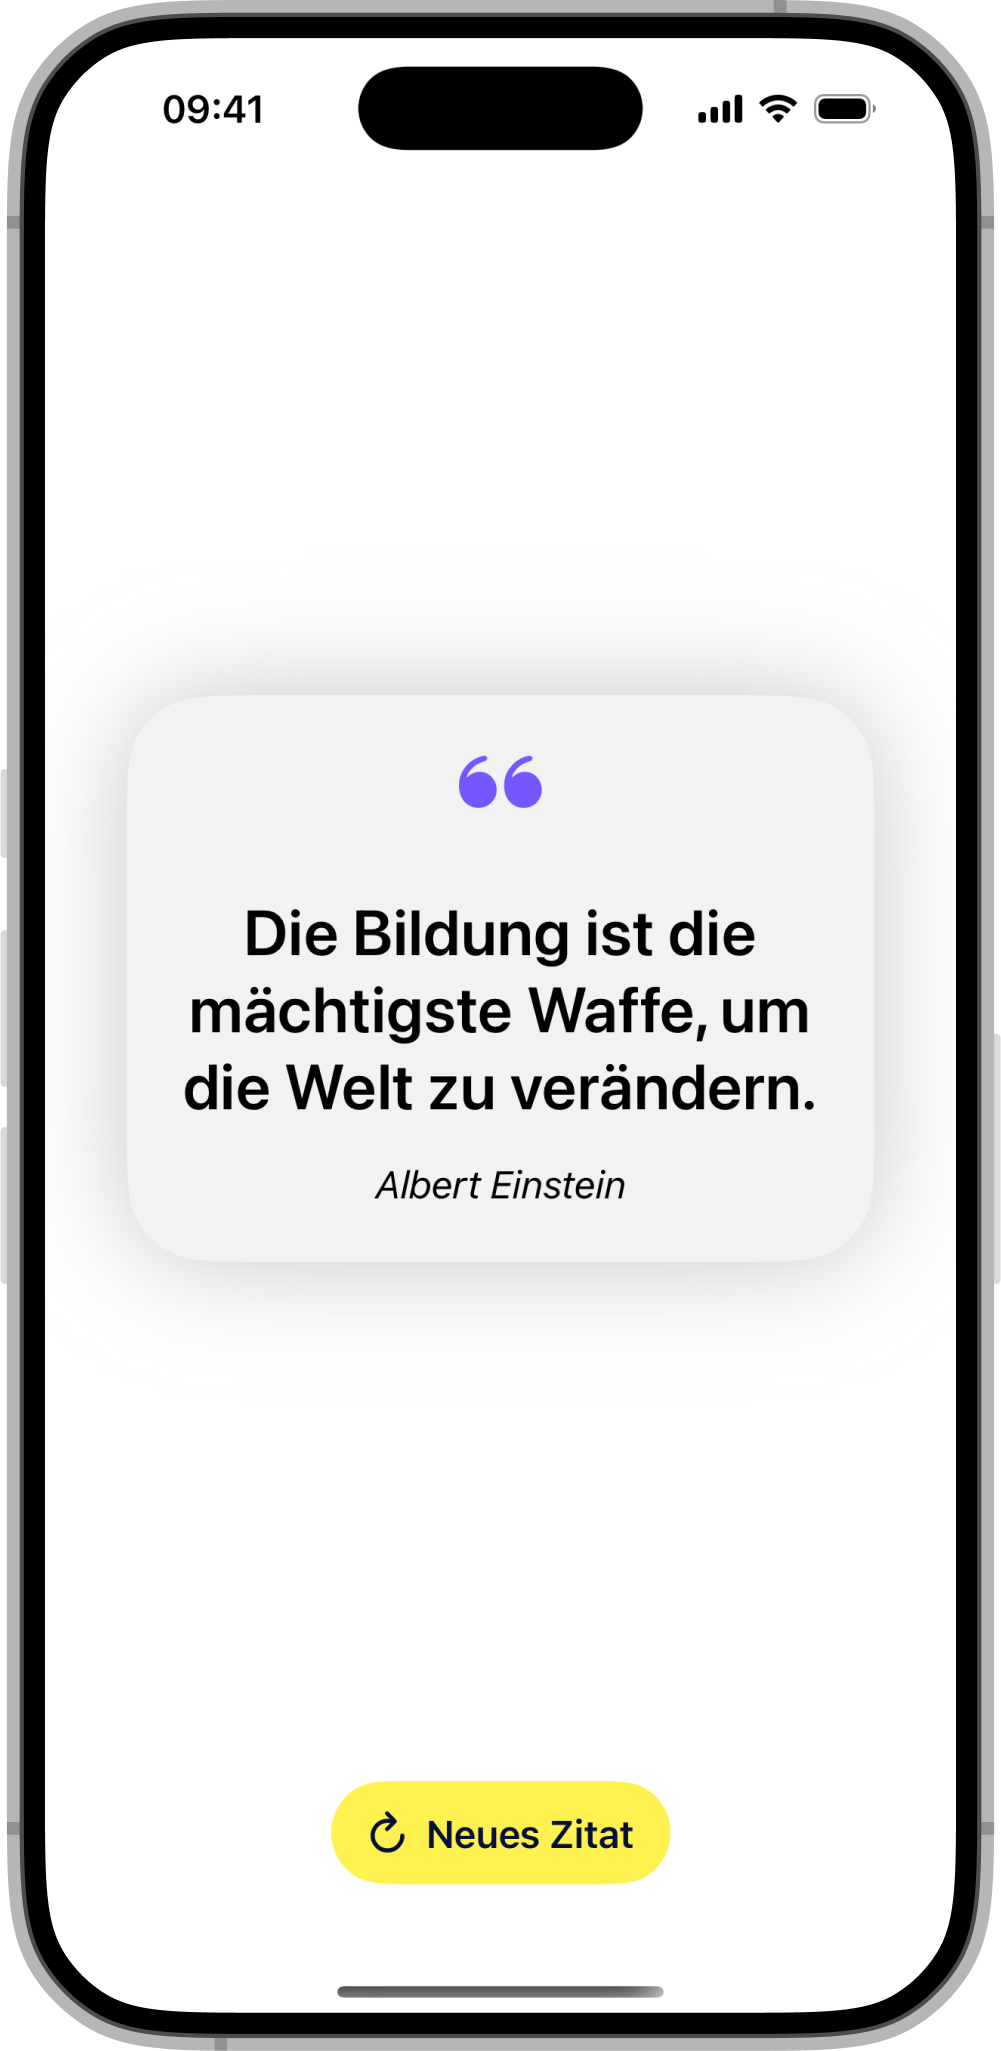
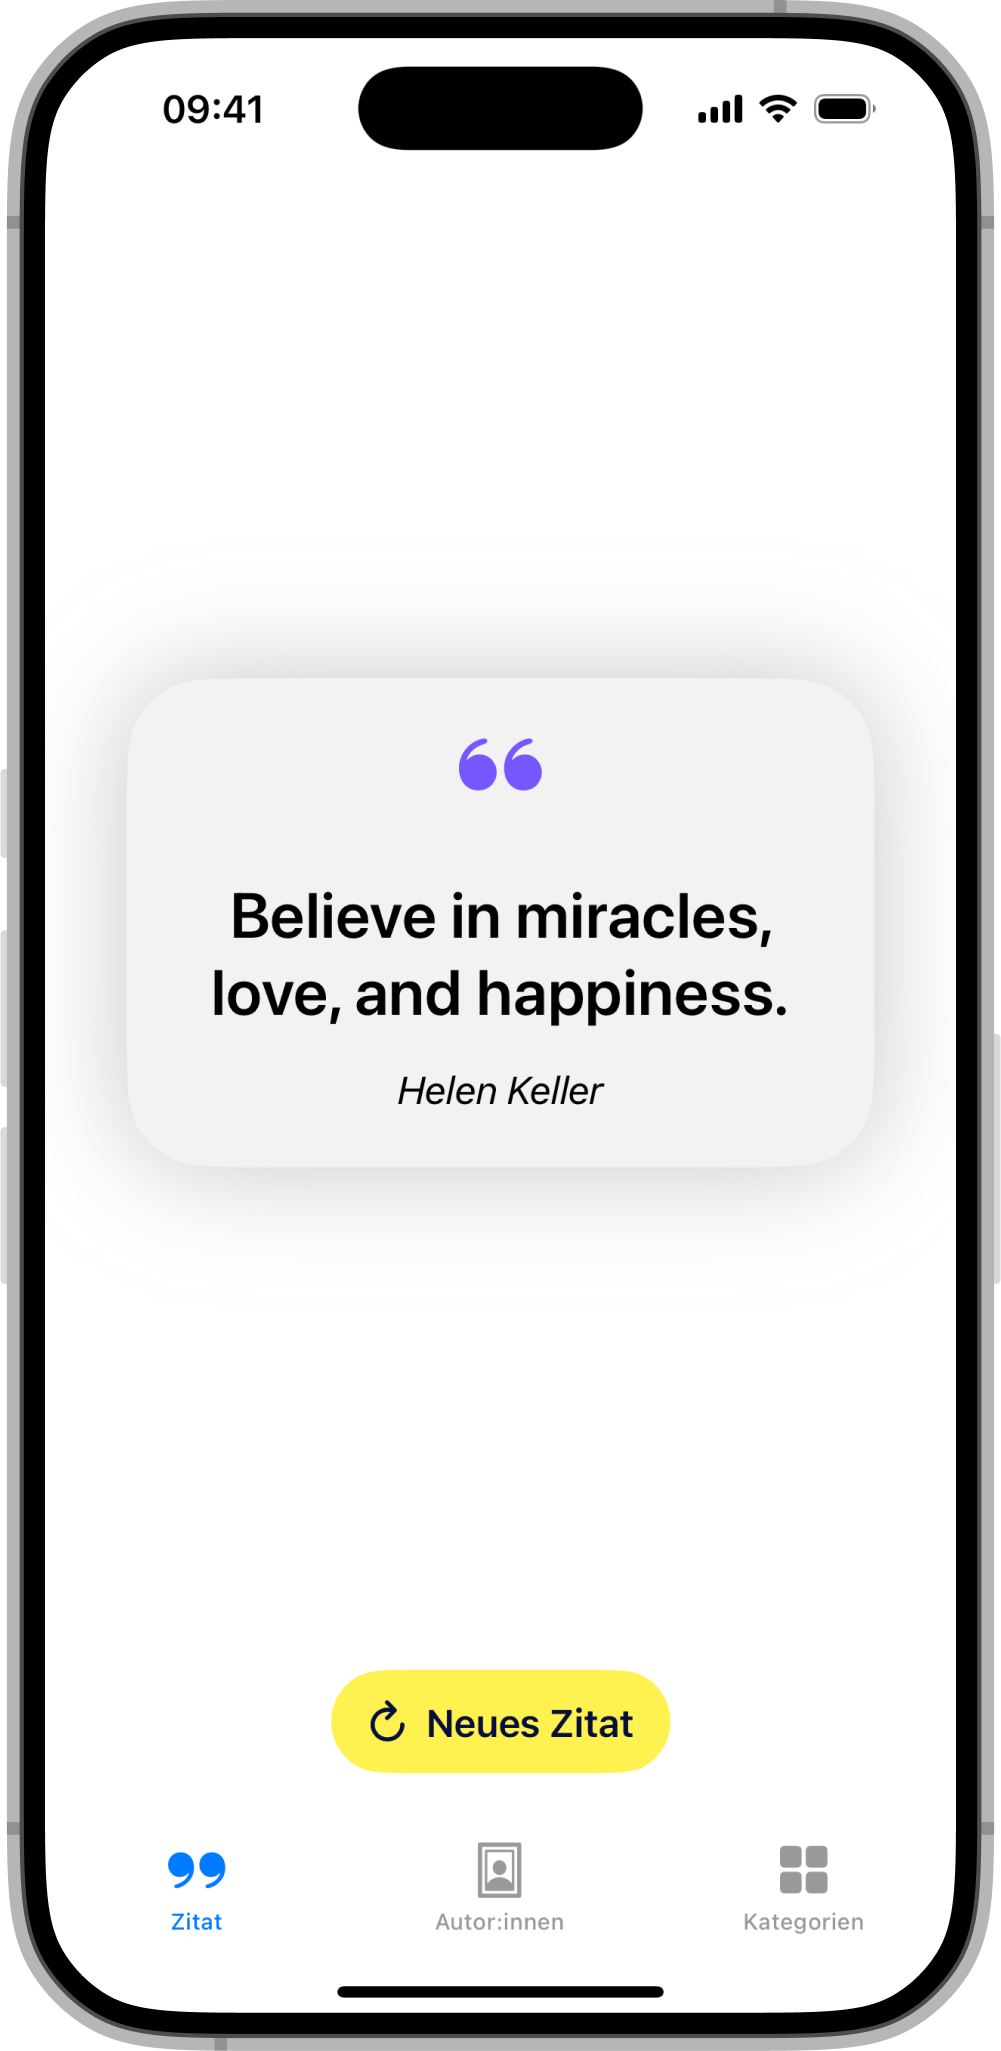
Readme aktualisiert

diff --git a/README.md b/README.md
@@ -1,10 +1,10 @@
 # Quotely: Zitate
 
 Wochenprojekt zum Thema APIs.
-Erfüllt die grundlegenden Anforderungen.
+Erfüllt die weiterführenden Anforderungen.
 
 
 
 ## Screenshots
 
-<img src="img/quote.png" alt="Quote" height="350"/>
+<img src="img/quote.png" alt="Quote" height="350"/> <img src="img/autoren.png" alt="Autor:innen" height="350"/> <img src="img/autorDetails.png" alt="Autor:innen Details" height="350"/> <img src="img/kategorien.png" alt="Kategorien" height="350"/> <img src="img/kategorieDetails.png" alt="Kategorie Details" height="350"/>
